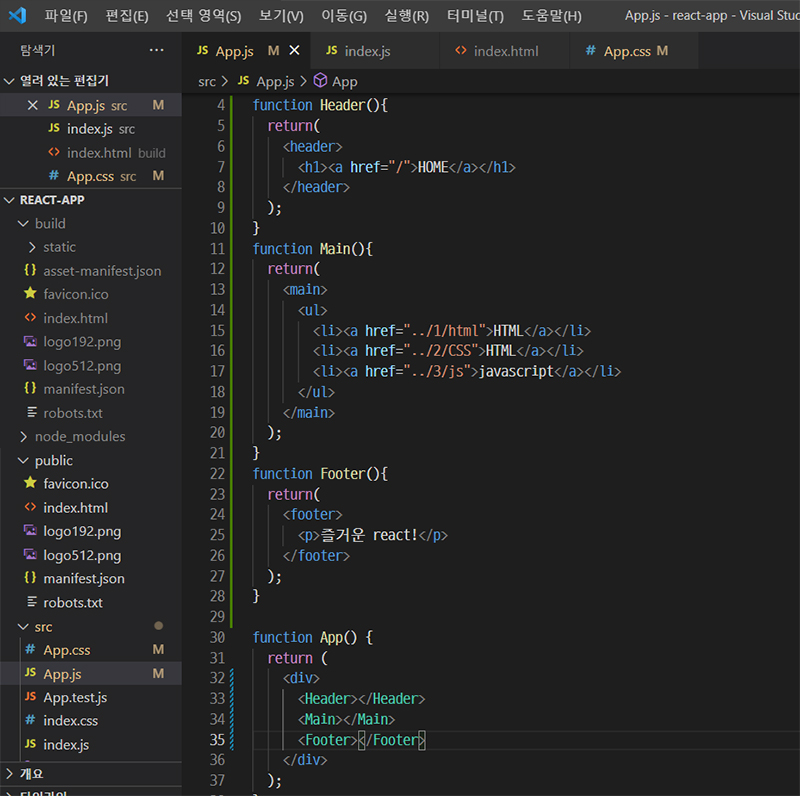
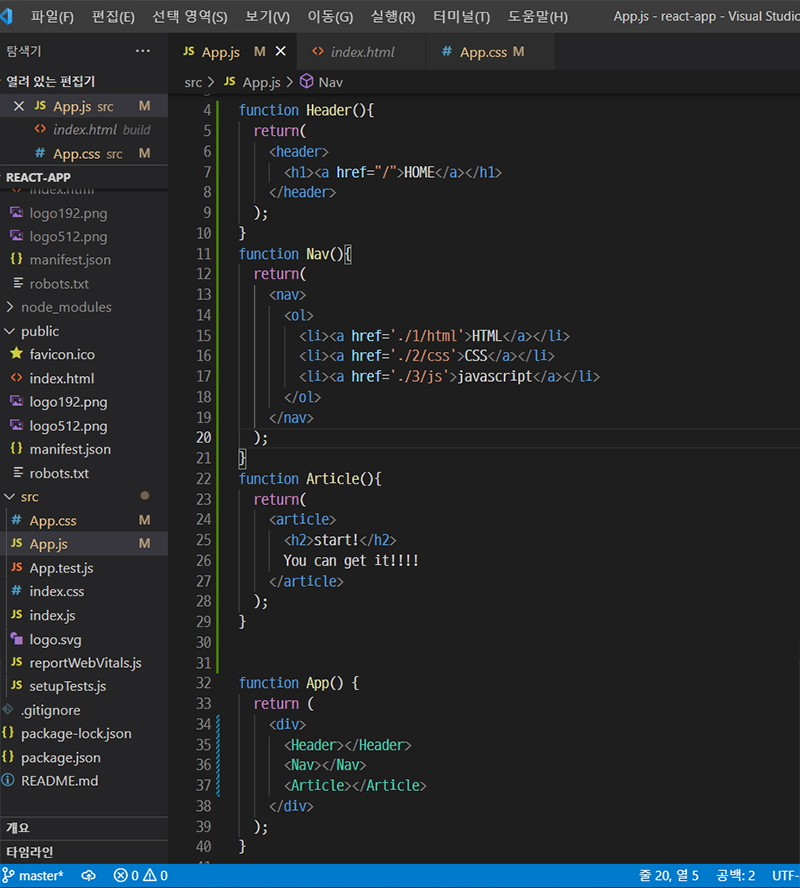
속성 props 완성

Changed region(s): [[0.0, 0.0, 1.0, 1.0], [0.75, 0.0, 1.0, 0.0302], [0.75, 0.0603, 0.8438, 0.0905]]

diff --git a/220417/reactFour.html b/220417/reactFour.html
@@ -31,7 +31,7 @@
     <header>
         <h1>
             <div class="menuBar">메뉴</div>
-            <a href="../index.html">솜이의 TIL <span>(Today I Learned!)</span>🥰</a>
+            <a href="/seldy21.github.io/">솜이의 TIL <span>(Today I Learned!)</span>🥰</a>
         </h1>
     </header>
     <aside>
@@ -102,6 +102,70 @@
         <section>
             <h3>복잡하지만 일단 따라해보자..</h3>
             <ol class="expln">
+                <li>
+                    Header 태그에 속성명을 넣고 넣고자하는 콘텐츠를 표기한다.
+                    <ul>
+                        <li><img src="images/react1.jpg" alt="리액트 코딩"></li>
+                    </ul>
+                </li>
+                <li>
+                    해당 함수 선언에 props 값을 넣고 return 안 콘텐츠에 &#123;props.<span>속성명</span>&#125; 표기
+                    <ul>
+                        <li><img src="images/react2.jpg" alt="리액트 코딩"></li>
+                        <li>중괄호를 꼭 써야한다.</li>
+                        <li>이 방법과 똑같이 article에도 콘텐츠를 넣었다.</li>
+                    </ul>
+                </li>
+            </ol>
+        </section>
+        <section>
+            <h3>이번에는 배열의 값을 속성으로 지정해보자</h3>
+            <ol class="expln">
+                <li>
+                    콘텐츠를 표시하는 함수 내에서 상수를 선언한다.
+                    <ul>
+                        <li><img src="images/react3.jpg" alt="리액트 코딩"></li>
+                        <li>배열로 작성해야 하며, (당연한 얘기지만) 텍스트는 '' 안에 작성해야 한다.</li>
+                    </ul>
+                </li>
+                <li>
+                    태그 내에 속성을 작성한다.
+                    <ul>
+                        <li><img src="images/react7.jpg" alt="리액트 코딩"></li>
+                    </ul>
+                </li>
+                <li>
+                    해당 함수에 props 작성 후 상수 선언을 한다. 그 안에는 배열로 들어갈 태그들을 넣는다.
+                    <ul>
+                        <li><img src="images/react4.jpg" alt="리액트 코딩"></li>
+                        <li>배열의 값이기 때문에 대괄호를 쓴다. 선언된 상수는 콘텐츠가 들어갈 자리에 &#123;<span>상수명</span>&#125; 으로 작성한다.</li>
+                        <li>각 태그들은 콤마로 구별한다.</li>
+                    </ul>
+                </li>
+                <li>
+                    배열의 값을 for문으로 적용한다.
+                    <ul>
+                        <li><img src="images/react5.jpg" alt="리액트 코딩"></li>
+                    </ul>
+                </li>
+                <li>변수를 선언하고 선언했던 상수 lis에 push 한다.
+                    <ul>
+                        <li><img src="images/react6.jpg" alt="리액트 코딩"></li>
+                    </ul>
+                </li>
+                <li>
+                    배열로 작성할 태그를 삭제하고, push 내에 작성한다.
+                    <ul>
+                        <li><img src="images/react8.jpg" alt="리액트 코딩"></li>
+                    </ul>
+                </li>
+                <li>
+                    완성 ㅠㅠ
+                    <ul>
+                        <li><img src="images/react9.jpg" alt="리액트 코딩 결과"></li>
+                    </ul>
+                </li>
+            </ol>
         </section>
     </main>
     <footer>

diff --git a/220417/css/reactFour.css b/220417/css/reactFour.css
@@ -1,14 +1,13 @@
 @charset "utf-8";
 
 main{height: auto;}
-main .expln {list-style: none;}
 main .expln li span{color:#777; font-style: italic;}
 
 @media screen and (min-width:768px){
 
     aside .sideMenu .downItems.downItems2{display: flex; flex-direction: column;}
     aside .sideMenu .downItems.downItems2 li:nth-child(5){color: aliceblue;}
-    aside .sideMenu .arrowDown3{background: url(../../common/images/close_black_24dp.svg) no-repeat 50% / contain ;}
+    aside .sideMenu .arrowDown2{background: url(../../common/images/close_black_24dp.svg) no-repeat 50% / contain ;}
 
     
     main .expln li .box{width:60vw;}

diff --git a/220416/css/reactTwo.css b/220416/css/reactTwo.css
@@ -7,7 +7,7 @@ main .expln li .box{background: rgb(255, 225, 249);padding:10px; box-sizing: bor
 
     aside .sideMenu .downItems.downItems2{display: flex; flex-direction: column;}
     aside .sideMenu .downItems.downItems2 li:nth-child(3){color: aliceblue;}
-    aside .sideMenu .arrowDown3{background: url(../../common/images/close_black_24dp.svg) no-repeat 50% / contain ;}
+    aside .sideMenu .arrowDown2{background: url(../../common/images/close_black_24dp.svg) no-repeat 50% / contain ;}
 
     
     main .expln li .box{width:60vw;}

diff --git a/220416/css/reactThree.css b/220416/css/reactThree.css
@@ -8,7 +8,7 @@ main .expln li span{color:#777; font-style: italic;}
 
     aside .sideMenu .downItems.downItems2{display: flex; flex-direction: column;}
     aside .sideMenu .downItems.downItems2 li:nth-child(4){color: aliceblue;}
-    aside .sideMenu .arrowDown3{background: url(../../common/images/close_black_24dp.svg) no-repeat 50% / contain ;}
+    aside .sideMenu .arrowDown2{background: url(../../common/images/close_black_24dp.svg) no-repeat 50% / contain ;}
 
     
     main .expln li .box{width:60vw;}

diff --git a/220416/reactThree.html b/220416/reactThree.html
@@ -121,6 +121,12 @@
                 <li>
                     사족을 달자면, 기존에 켜진 개발 환경에서 나가려면 터미널에서 ctrl키와 c를 누르면 된다.
                 </li>
+                <li>
+                    <ul>
+                        <li><img src="images/react10.jpg" alt="리액트 코딩"></li>
+                        <li>완성된 화면</li>
+                    </ul>
+                </li>
             </ol>
         </section>
     </main>
